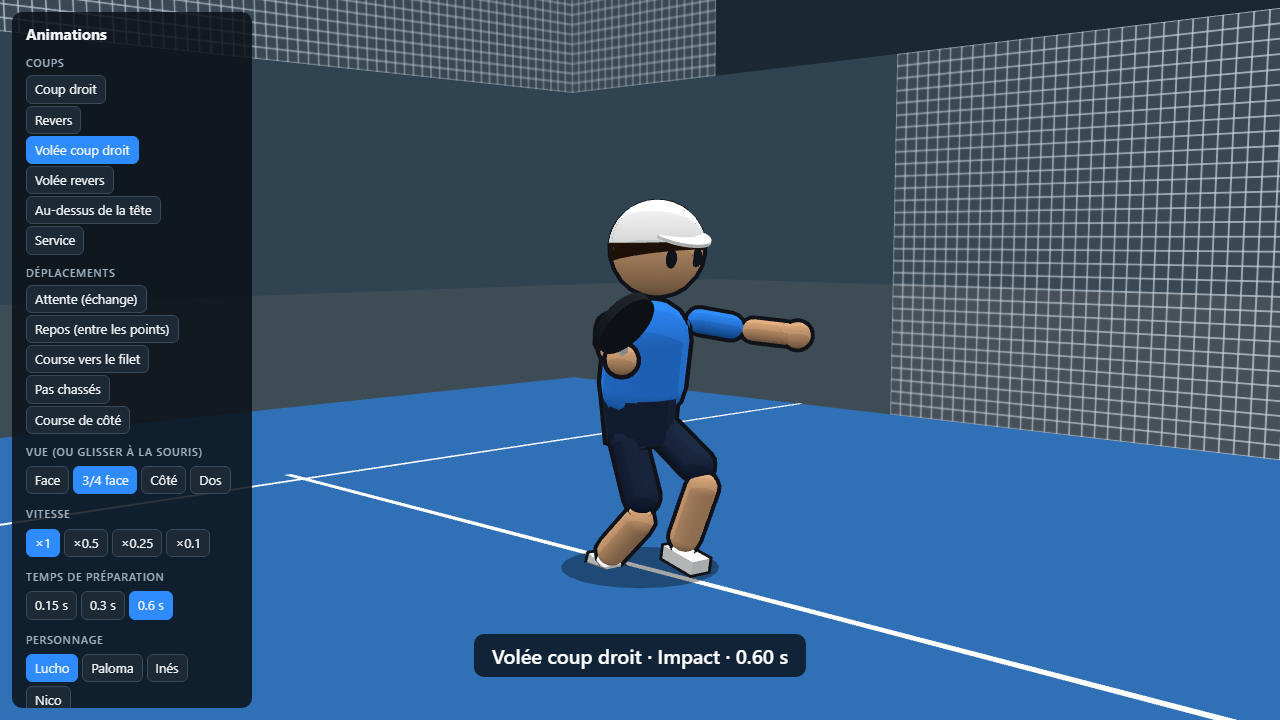
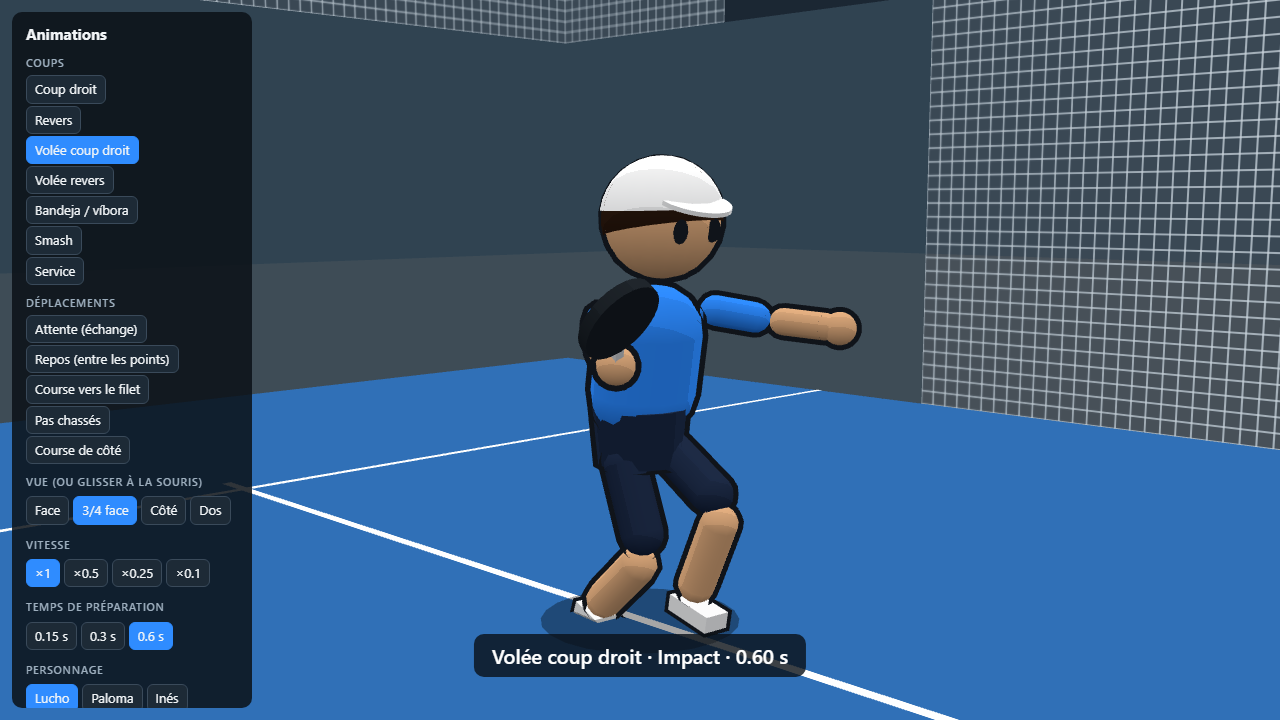
E2 : bandeja et víbora, même geste, d'après les images de Xavier
Armé de profil raquette au-dessus de l'épaule et bras gauche vers la balle,
impact sur le côté, fin du geste vers le bas à gauche. Le smash garde son geste.

diff --git a/src/render/duelScene.ts b/src/render/duelScene.ts
@@ -7,7 +7,7 @@ import { lerp, type Vec3 } from '../sim/vec3';
 import { createCourt } from './court';
 import { CHARACTERS, createCharacter, type CharacterRig } from './character';
 import { loadModel, modelsEnabled } from './models';
-import { bodyYawTarget, computePose, lowFamily, plansHighShot, STRIDE, swingSide, type SwingFamily } from './pose';
+import { bodyYawTarget, computePose, lowFamily, overheadFamily, plansHighShot, STRIDE, swingSide, type SwingFamily } from './pose';
 
 export interface DuelView {
   render(alpha: number, frameTime: number): void;
@@ -85,7 +85,7 @@ interface PlayerView {
   object: THREE.Group;
   /** Personnage cartoon et son état d'animation, propre au rendu. */
   rig: CharacterRig;
-  anim: { yaw: number; stride: number; side: 'fore' | 'back'; high: boolean; volley: boolean; last: { x: number; z: number } | null };
+  anim: { yaw: number; stride: number; side: 'fore' | 'back'; high: boolean; highFamily: SwingFamily; volley: boolean; last: { x: number; z: number } | null };
   /**
    * Anneau au sol, visible tant que le coup est préparé : il se resserre jusqu'au moment d'impact,
    * où il atteint la taille du joueur. C'est le repère pour relâcher (GAME_DESIGN.md §4).
@@ -166,7 +166,7 @@ function createPlayerView(color: number, index: number, height: number): PlayerV
   );
   standMarker.rotation.x = -Math.PI / 2;
   const bubble = createBubble();
-  const anim: PlayerView['anim'] = { yaw: 0, stride: 0, side: 'fore', high: false, volley: false, last: null };
+  const anim: PlayerView['anim'] = { yaw: 0, stride: 0, side: 'fore', high: false, highFamily: 'bandeja', volley: false, last: null };
   return { object, rig, anim, timingRing, timingMaterial, standMarker, color, bubble, bubbleKind: null };
 }
 
@@ -354,7 +354,10 @@ export function createDuelView(canvas: HTMLCanvasElement, duel: Duel): DuelView 
       if (target) view.anim.side = swingSide(localX(target), view.anim.side);
       view.anim.high = plansHighShot(duel, player, engagement);
       view.anim.volley = engagement.plan?.volley ?? false;
-      const family = view.anim.high ? 'overhead' : lowFamily(view.anim.side, view.anim.volley);
+      // Coup haut : la variante ne se décide qu'au relâcher ; on prépare la bandeja/víbora (même armé que le smash),
+      // sauf le smash annoncé aux boutons (stick de déplacement vers l'avant à l'appui).
+      view.anim.highFamily = !engagement.swing && duel.rematePrepared(duel.players.indexOf(player)) ? 'overhead' : 'bandeja';
+      const family = view.anim.high ? view.anim.highFamily : lowFamily(view.anim.side, view.anim.volley);
       prep = { family, seconds: (now - engagement.pressTick) * SIM_DT };
     }
 
@@ -370,7 +373,8 @@ export function createDuelView(canvas: HTMLCanvasElement, duel: Duel): DuelView 
       // est toujours celle d'un coup haut : c'est la hauteur de la balle qui décide).
       const high = hit ? kind === 'overhead' : view.anim.high;
       const volley = hit ? hit.volley : view.anim.volley;
-      const family: SwingFamily = hit?.serve ? 'serve' : high ? 'overhead' : lowFamily(view.anim.side, volley);
+      const highFamily = hit ? overheadFamily(hit.overhead) : view.anim.highFamily;
+      const family: SwingFamily = hit?.serve ? 'serve' : high ? highFamily : lowFamily(view.anim.side, volley);
       strike = { family, seconds: (now - strikeTick) * SIM_DT };
     }
 

diff --git a/src/render/pose.ts b/src/render/pose.ts
@@ -8,12 +8,14 @@
  */
 
 import type { Duel, DuelPlayer, Engagement } from '../sim/duel';
+import type { OverheadKind } from '../sim/commands';
 import { bandejaHeight } from '../sim/shots';
 
 export type V3 = readonly [number, number, number];
 
 /** Famille du geste : coup droit, revers, au-dessus de la tête, service à la cuillère. */
-export type SwingFamily = 'fore' | 'back' | 'voleeFore' | 'voleeBack' | 'overhead' | 'serve';
+/** `overhead` : smash (remate), bajada et feinte ; `bandeja` : bandeja et víbora, même geste. */
+export type SwingFamily = 'fore' | 'back' | 'voleeFore' | 'voleeBack' | 'bandeja' | 'overhead' | 'serve';
 
 export interface Pose {
   /** Abaissement du bassin (m) : flexion des genoux. */
@@ -99,6 +101,15 @@ const SWINGS: Record<SwingFamily, { prep: Key; impact: Key; follow: Key }> = {
     prep: key({ twist: 0.8, lean: 0.12, crouch: 0.12, armR: [0.55, -0.25, 0.2], armL: [0.45, -0.1, 0.4], elbowR: 1.2, racket: [0.35, 0.85, -0.3], face: [1, 0, 0.2] }),
     impact: key({ twist: 0.25, lean: 0.2, crouch: 0.15, armR: [0.5, -0.2, 0.85], armL: [0.6, -0.3, -0.75], elbowR: 0.3, racket: [0.45, 0.7, 0.55], face: [0, 0.1, 1], stepR: 0.45 }),
     follow: key({ twist: 0.05, lean: 0.22, crouch: 0.14, armR: [0.3, -0.35, 0.9], armL: [0.6, -0.35, -0.7], elbowR: 0.3, racket: [0.3, 0.5, 0.8], face: [0, -0.3, 1], stepR: 0.5 }),
+  },
+  // Bandeja et víbora d'après les images de Xavier (víbora) : préparation de profil, raquette montée à deux mains
+  // puis derrière la tête, coude haut, bras gauche tendu vers la balle, pied droit en arrière ; impact sur le côté,
+  // devant, entre l'épaule et la tête ; le geste traverse le corps vers le bas et finit à gauche, à hauteur de hanche,
+  // le corps tourné et la jambe droite qui passe devant.
+  bandeja: {
+    prep: key({ twist: -1.1, lean: -0.15, crouch: 0.1, armR: [-0.75, 0.55, -0.2], armL: [0.25, 0.95, 0.2], elbowR: 1.0, racket: [-0.2, 0.9, -0.4], face: [-1, 0, 0], stepL: 0.3 }),
+    impact: key({ twist: -0.2, lean: 0.1, crouch: 0.08, armR: [-0.75, 0.35, 0.55], armL: [0.85, 0.2, 0.2], elbowR: 0.1, racket: [-0.75, 0.25, 0.6], face: [0, 0.1, 1], stepL: 0.3 }),
+    follow: key({ twist: 1.0, lean: 0.3, crouch: 0.12, armR: [0.8, -0.5, 0.3], armL: [0.4, -0.6, -0.6], elbowR: 0.3, racket: [0.6, -0.3, -0.7], face: [1, 0, 0], stepR: 0.35 }),
   },
   overhead: {
     prep: key({ twist: -0.7, lean: -0.12, crouch: 0.04, armR: [-0.5, 0.8, -0.3], armL: [0.35, 0.9, 0.3], elbowR: 0.9, racket: [0.1, -0.3, -0.95], face: [-1, 0, 0] }),
@@ -256,6 +267,11 @@ export function computePose(input: PoseInput): Pose {
 /** Pas en avant (`forward`) de cette jambe, ou en arrière quand c'est l'autre qui avance (`other`). */
 function step(leg: LegPose, forward: number, other: number): LegPose {
   return { swing: leg.swing - forward + other * 0.5, spread: leg.spread, knee: leg.knee + forward * 0.6 };
+}
+
+/** Geste d'un coup au-dessus de la tête joué : bandeja et víbora d'un côté, smash, bajada et feinte de l'autre. */
+export function overheadFamily(variant: OverheadKind | null): SwingFamily {
+  return variant === 'bandeja' || variant === 'vibora' ? 'bandeja' : 'overhead';
 }
 
 /** Coup au sol ou de volée, côté coup droit ou revers. */

diff --git a/tests/render/pose.test.ts b/tests/render/pose.test.ts
@@ -1,5 +1,5 @@
 import { describe, expect, it } from 'vitest';
-import { bodyYawTarget, computePose, FOLLOW_TIME, lowFamily, plansHighShot, prepAmount, RECOVER_TIME, swingSide, type PoseInput, type V3 } from '../../src/render/pose';
+import { bodyYawTarget, computePose, FOLLOW_TIME, lowFamily, overheadFamily, plansHighShot, prepAmount, RECOVER_TIME, swingSide, type PoseInput, type V3 } from '../../src/render/pose';
 import { NEUTRAL_ARCADE } from '../../src/sim/commands';
 import { Duel, type HighFloor } from '../../src/sim/duel';
 import { vec3 } from '../../src/sim/vec3';
@@ -9,7 +9,7 @@ const length = (v: V3): number => Math.hypot(v[0], v[1], v[2]);
 
 describe('poses du personnage', () => {
   it('donne des directions unitaires et aucune valeur NaN, dans tous les états', () => {
-    const families = ['fore', 'back', 'voleeFore', 'voleeBack', 'overhead', 'serve'] as const;
+    const families = ['fore', 'back', 'voleeFore', 'voleeBack', 'bandeja', 'overhead', 'serve'] as const;
     for (const family of families) {
       for (const seconds of [0, 0.1, 0.3, 0.6, 2]) {
         for (const strike of [null, { family, seconds }]) {
@@ -159,5 +159,35 @@ describe('volées (images de Xavier)', () => {
     const me = duel.players[0];
     expect(me.engagement!.plan!.volley).toBe(true);
     expect(plansHighShot(duel, me, me.engagement!)).toBe(false);
+  });
+});
+
+describe('bandeja et víbora (images de Xavier)', () => {
+  it('même geste pour la bandeja et la víbora ; le smash, la bajada et la feinte ont le leur', () => {
+    expect(overheadFamily('bandeja')).toBe('bandeja');
+    expect(overheadFamily('vibora')).toBe('bandeja');
+    expect(overheadFamily('remate')).toBe('overhead');
+    expect(overheadFamily('bajada')).toBe('overhead');
+    expect(overheadFamily('feinte')).toBe('overhead');
+  });
+
+  it('armé : de profil, bras droit levé, raquette derrière la tête, bras gauche tendu vers la balle', () => {
+    const prep = computePose({ ...still, prep: { family: 'bandeja', seconds: 1 } });
+    expect(prep.twist).toBeLessThan(-0.8);
+    expect(prep.armR[1]).toBeGreaterThan(0.5);
+    expect(prep.racket[1]).toBeGreaterThan(0.7);
+    expect(prep.racket[2]).toBeLessThan(-0.2);
+    expect(prep.armL[1]).toBeGreaterThan(0.8);
+  });
+
+  it('impact sur le côté, devant, puis fin du geste à gauche, à hauteur de hanche, jambe droite devant', () => {
+    const impact = computePose({ ...still, strike: { family: 'bandeja', seconds: 0 } });
+    expect(impact.racket[0]).toBeLessThan(-0.5);
+    expect(impact.racket[2]).toBeGreaterThan(0.4);
+    const follow = computePose({ ...still, strike: { family: 'bandeja', seconds: FOLLOW_TIME } });
+    expect(follow.twist).toBeGreaterThan(0.8);
+    expect(follow.armR[0]).toBeGreaterThan(0.5);
+    expect(follow.armR[1]).toBeLessThan(0);
+    expect(follow.legR.swing).toBeLessThan(follow.legL.swing);
   });
 });

diff --git a/src/modes/animations.ts b/src/modes/animations.ts
@@ -16,7 +16,8 @@ const FAMILY_NAMES: Partial<Record<SwingFamily, string>> = {
   back: 'Revers',
   voleeFore: 'Volée coup droit',
   voleeBack: 'Volée revers',
-  overhead: 'Au-dessus de la tête',
+  bandeja: 'Bandeja / víbora',
+  overhead: 'Smash',
   serve: 'Service',
 };
 
@@ -301,7 +302,8 @@ export function startAnimations(canvas: HTMLCanvasElement): void {
         ? `${FAMILY_NAMES[state.clip.family] ?? state.clip.family} · ${phaseAt(t)} · ${t.toFixed(2)} s`
         : MOTIONS[state.clip.motion].name;
 
-    const distance = 5.6;
+    // Assez près pour rester dans le terrain en vue de côté (le grillage masquerait le joueur).
+    const distance = 4.4;
     camera.position.set(spot.x + Math.sin(state.angle) * distance, 1.5, spot.z + Math.cos(state.angle) * distance);
     camera.lookAt(spot.x, 0.95, spot.z);
     renderer.render(scene, camera);

diff --git a/tests/e2e/animations.spec.ts b/tests/e2e/animations.spec.ts
@@ -9,7 +9,7 @@ test('le visionneur joue chaque coup et chaque déplacement, phase par phase, sa
   await page.goto('/?mode=animations&models=off');
   await page.waitForFunction(() => window.__anim !== undefined);
 
-  for (const family of ['fore', 'back', 'voleeFore', 'voleeBack', 'overhead', 'serve']) {
+  for (const family of ['fore', 'back', 'voleeFore', 'voleeBack', 'bandeja', 'overhead', 'serve']) {
     await page.click(`[data-anim="${family}"]`);
     for (const [t, phase] of [[0.3, 'Préparation'], [0.61, 'Impact'], [0.75, 'Fin du geste'], [1.0, 'Retour en attente']] as const) {
       await page.evaluate((t) => window.__anim!.seek(t), t);

diff --git a/STATUS.md b/STATUS.md
@@ -514,3 +514,19 @@ un personnage seul au milieu de son camp, sans simulation.
   les quatre personnages ; pause et barre de lecture pour s'arrêter sur une image.
 - Lien direct : `?mode=animations&coup=voleeFore&vue=cote&vitesse=0.25`.
 - Test navigateur `tests/e2e/animations.spec.ts` ; capture `screenshots/43-visionneur-animations.png`.
+
+### E2 : bandeja et víbora d'après les images de Xavier (17/10/2026)
+
+450 tests OK (dont 3 de plus dans `tests/render/pose.test.ts`), typecheck OK, test navigateur du visionneur OK,
+`src/sim` inchangé. **À rejouer à la manette.**
+
+- Nouvelle famille de geste `bandeja` (bandeja et víbora, même geste, comme décidé avec Xavier) ; `overhead` reste
+  celui du smash, de la bajada et de la feinte (`overheadFamily`). Armé de profil, raquette montée au-dessus de
+  l'épaule droite, coude haut, bras gauche tendu vers la balle, pied droit en arrière ; impact sur le côté, devant,
+  entre l'épaule et la tête ; le geste traverse le corps vers le bas et finit à gauche, à hauteur de hanche, corps
+  tourné et jambe droite devant.
+- La variante ne se décide qu'au relâcher : pendant la préparation au stick, le personnage arme la bandeja/víbora
+  (l'armé du smash est le même sur les images) ; à l'impact, le coup joué choisit le geste. Aux boutons, un smash
+  annoncé (stick de déplacement vers l'avant à l'appui) arme le smash.
+- Visionneur : « Bandeja / víbora » et « Smash » ; caméra rapprochée (4,4 m) pour rester dans le terrain en vue de côté.
+- Planche (face et côté) : `screenshots/44-bandeja-vibora.png`.
